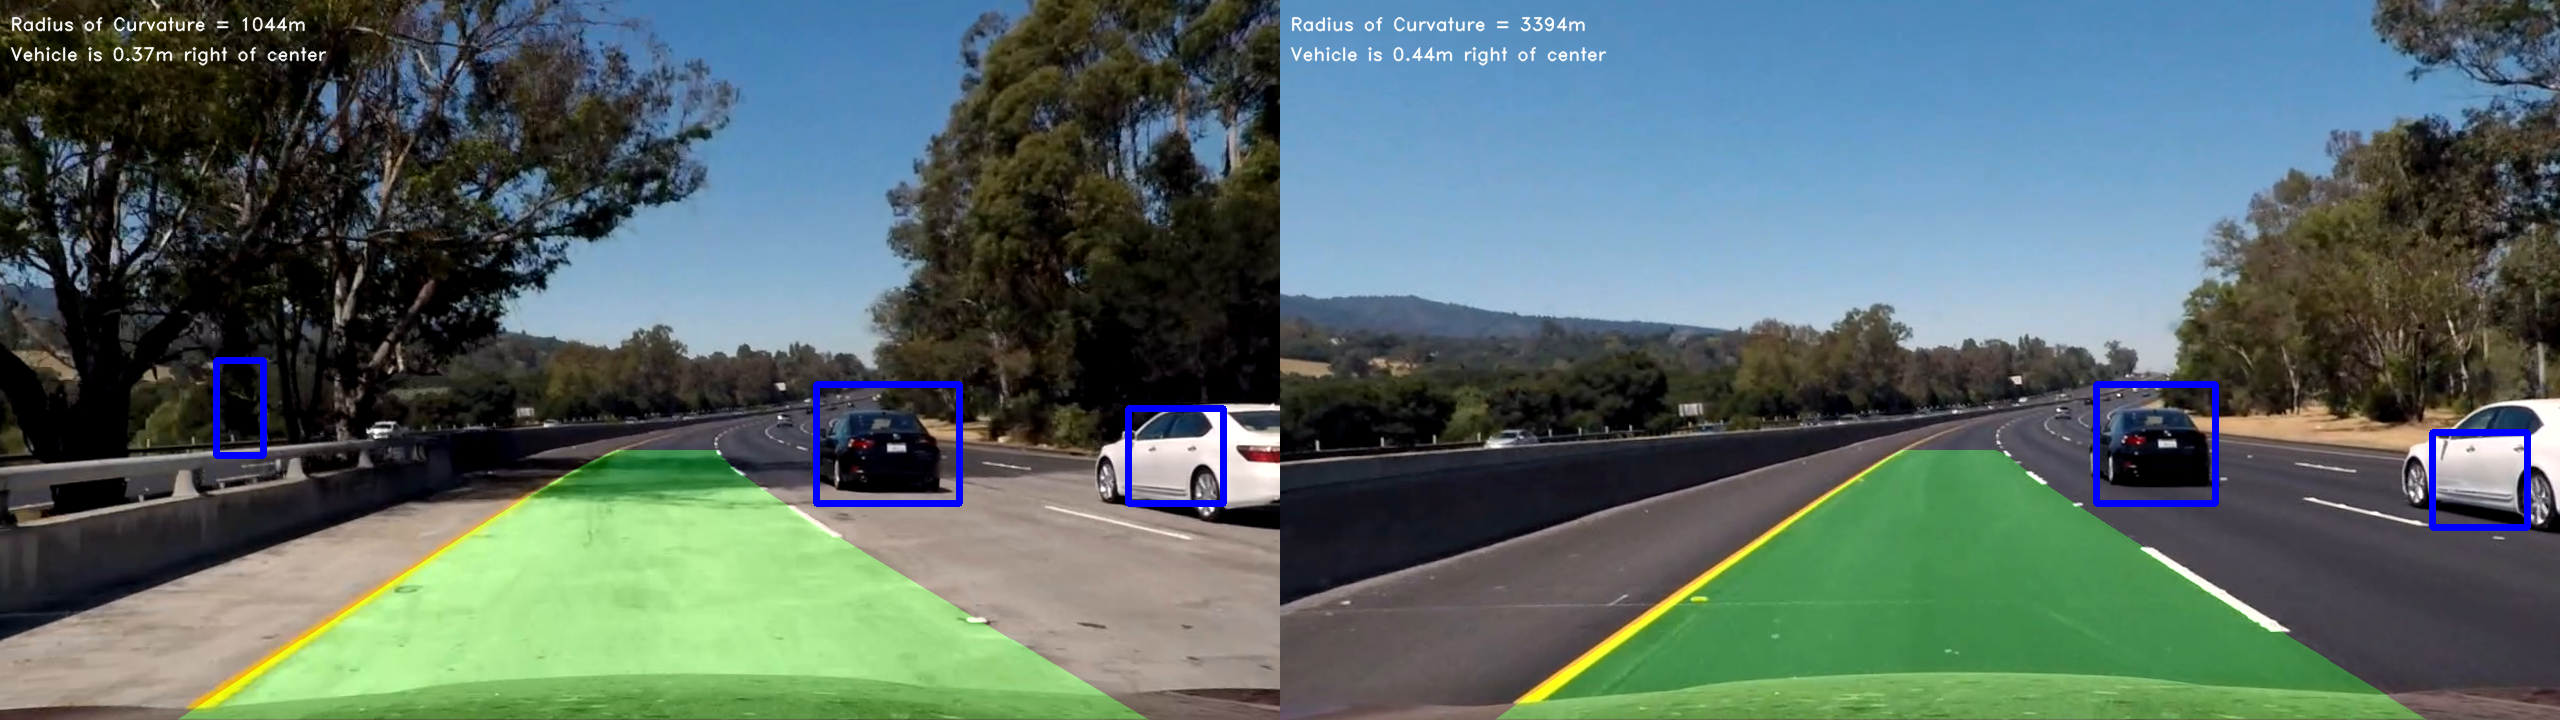
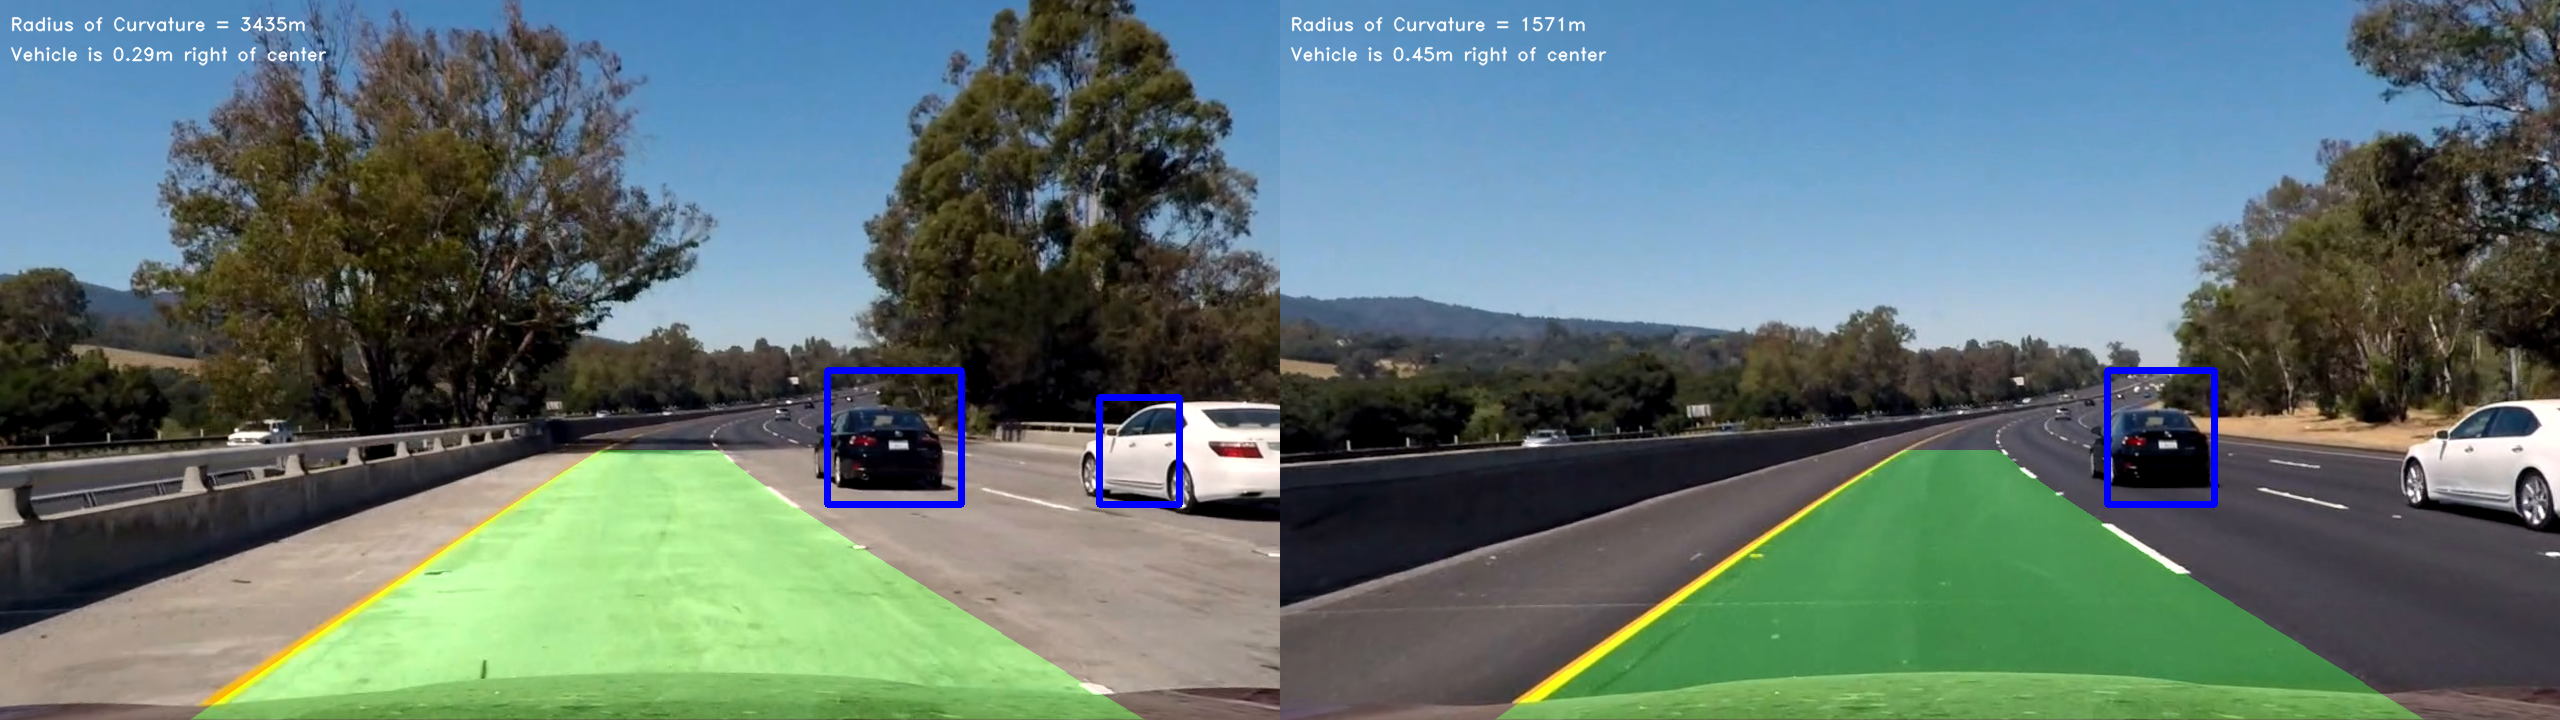
included a new pipeline frame. updated readme.

diff --git a/README.md b/README.md
@@ -299,7 +299,7 @@ heatmap_binary = np.clip(heat_binary, 0, 1)
     	from collection import deque
     	history = deque(maxlen=8)
         ```
-	-	Maintain history of heartmaps:
+	-	Maintain history of heatmaps:
     	```python
     	history.append(heatmap)
         ```
@@ -334,14 +334,19 @@ To update the previously found duplicates and false postive bounding boxes:
     -	Draw bounding box using opencv `rectangle`.
     
 ```python
-heat = np.zeros_like(img[:, :, 0]).astype(np.float)  # Add heat to each box in box list
+# get the average of heatmaps from history
+new_heat = np.zeros_like(img[:, :, 0]).astype(np.float)
+heat = np.mean(history, axis=0) if len(history) > 0 else new_heat
 heat = Helper.add_heat(heat, bounding_boxes)
 
 # Get binary heat map
-heatmap_binary = Helper.get_heatmap(heat)
+heatmap = Helper.get_heatmap(heat)
 
 # Find final boxes from heatmap using label function
-labels = label(heatmap_binary)
+labels = label(heatmap)
+
+# update heatmap history
+history.append(heatmap)
 
 # show box where label is 1
 detected_cars = Helper.draw_updated_boxes(np.copy(img), labels)
@@ -366,7 +371,7 @@ The results of vehicle detection are combined with lane detection from previous 
 
 Here is the video of the complete pipeline:
 
-[![Advanced Vehicle Detection](http://img.youtube.com/vi/ngW_dDmAKjY/0.jpg)](http://www.youtube.com/watch?v=ngW_dDmAKjY)
+[![Advanced Vehicle Detection](http://img.youtube.com/vi/Ff96rLUurrc/0.jpg)](http://www.youtube.com/watch?v=Ff96rLUurrc)
 
 
 Discussion
